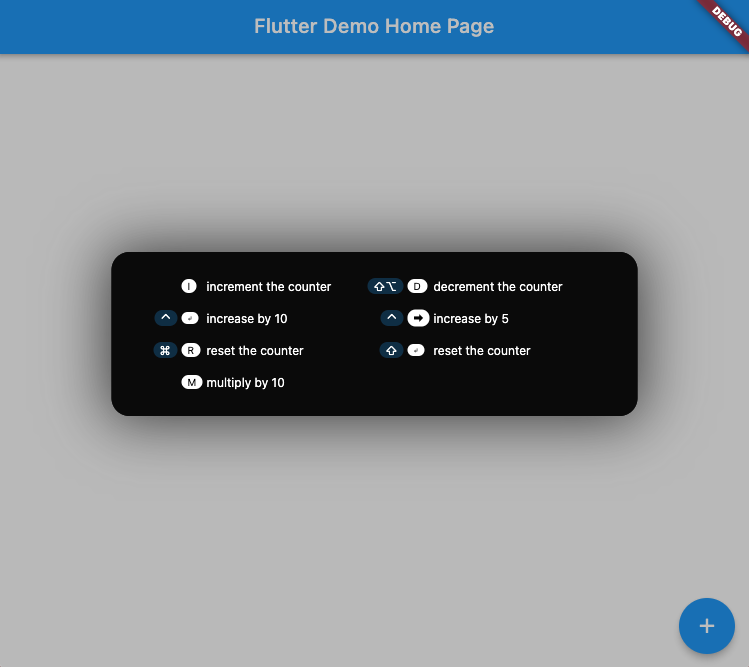
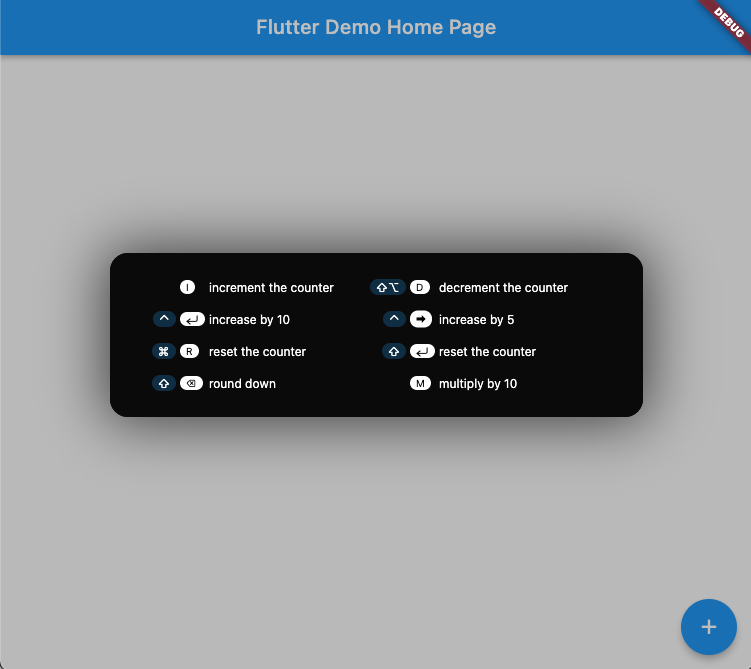
add more key symbols; update example

diff --git a/example/lib/main.dart b/example/lib/main.dart
@@ -75,6 +75,13 @@ class _MyHomePageState extends State<MyHomePage> {
       KeyStrokeRep(LogicalKeyboardKey.enter,'reset the counter ',
         (){ _resetCounter();},
         isShiftPressed: true),
+      KeyStrokeRep(LogicalKeyboardKey.delete,'round down ',
+        (){
+          setState(() {
+            _counter = _counter~/10;
+          });
+        },
+        isShiftPressed: true),
       KeyStrokeRep(LogicalKeyboardKey.keyM, 'multiply by 10',
           () {
             setState(() {

diff --git a/lib/src/keyboard_widget.dart b/lib/src/keyboard_widget.dart
@@ -40,8 +40,11 @@ class KeyStrokeRep {
     else if (key == LogicalKeyboardKey.arrowDown) {
       label = '\u2B07';
     }
+    else if (key == LogicalKeyboardKey.delete) {
+      label = '\u232B';
+    }
     else if (key == LogicalKeyboardKey.enter) {
-      label = '\u21B5';
+      label = '\u2B90';
     }
     return label;
   }
